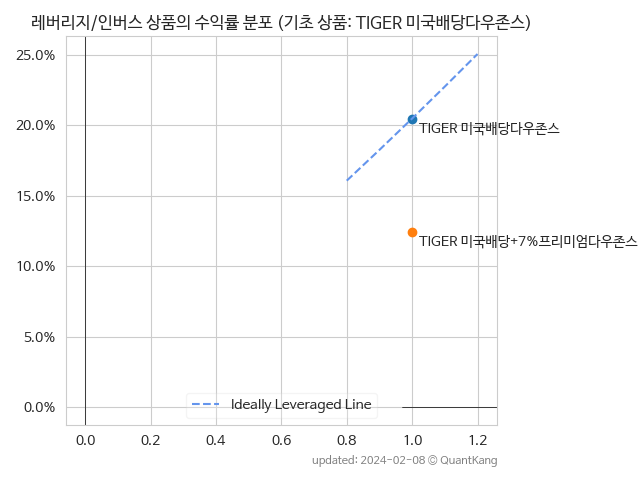
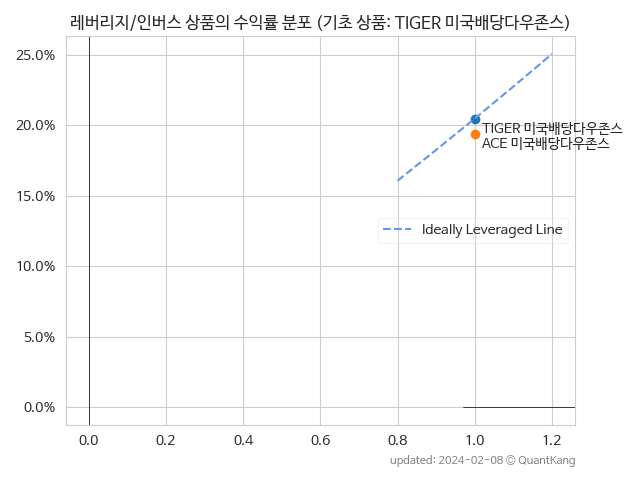
jepq test

diff --git a/_posts/lev/2024-02-08-402970-458730.md b/_posts/lev/2024-02-08-402970-458730.md
@@ -1,0 +1,44 @@
+---
+layout: splash
+title: ACE 미국배당다우존스 vs TIGER 미국배당다우존스
+excerpt: ACE 미국배당다우존스의 최근 0.6년 CAGR은 19.4%로 TIGER 미국배당다우존스의 20.5%보다 -1.1% 낮았습니다.
+header:
+  overlay_color: "#333"
+  show_overlay_excerpt: false
+categories:
+- vs
+---
+
+| **종목** | **CAGR** | **편차** | **샤프** | **MDD** | **AvDD** |
+| :------------ | ------: | -----------: | -------: | ------: | -------: |
+| ACE 미국배당다우존스 | <span style="color: tomato">19.4<small>%</small></span> | 10.6<small>%</small> | 1.84 | -7.8<small>%</small> | -2.0<small>%</small> |
+
+<!-- more -->
+
+<br>
+![ACE 미국배당다우존스](/lev/images/402970-458730.png){: .align-center}
+
+<br>
+> **ACE 미국배당다우존스 vs. TIGER 미국배당다우존스**<small>[^fn_price_metric]</small>
+
+
+
+| **종목** | **CAGR** | **편차** | **샤프** | **MDD** | **AvDD** |
+| :------------ | ------: | -----------: | -------: | ------: | -------: |
+| ACE 미국배당다우존스 | <span style="color: tomato">19.4<small>%</small></span> | 10.6<small>%</small> | 1.84 | -7.8<small>%</small> | -2.0<small>%</small> |
+| TIGER 미국배당다우존스 | <span style="color: tomato">20.5<small>%</small></span> | 11.2<small>%</small> | 1.84 | -7.7<small>%</small> | -1.9<small>%</small> |
+| 458730<sub>std</sub> <small>(95%)</small> | <span style="color: tomato">19.3<small>%</small></span> | 10.6<small>%</small> | 1.83 | -7.3<small>%</small> | -1.8<small>%</small> |
+| 458730<sub>mdd</sub> <small>(101%)</small> | <span style="color: tomato">20.8<small>%</small></span> | 11.3<small>%</small> | 1.84 | -7.8<small>%</small> | -2.0<small>%</small> |
+
+<br>
+수익률 지표를 살펴보면, ACE 미국배당다우존스의 지난 0.6년간 CAGR은 19.4%로 TIGER 미국배당다우존스의 20.5%보다 -1.1% 낮았습니다.
+
+위험도 지표의 하나인 표준편차를 비교하면, ACE 미국배당다우존스의 10.6%는  TIGER 미국배당다우존스의 11.2%와 비슷했습니다.
+
+
+<br>
+> **관련 정보**
+
+- [VS 목록](/vs/){: .btn .btn--info}
+
+{% include commons/footnotes.md %}
